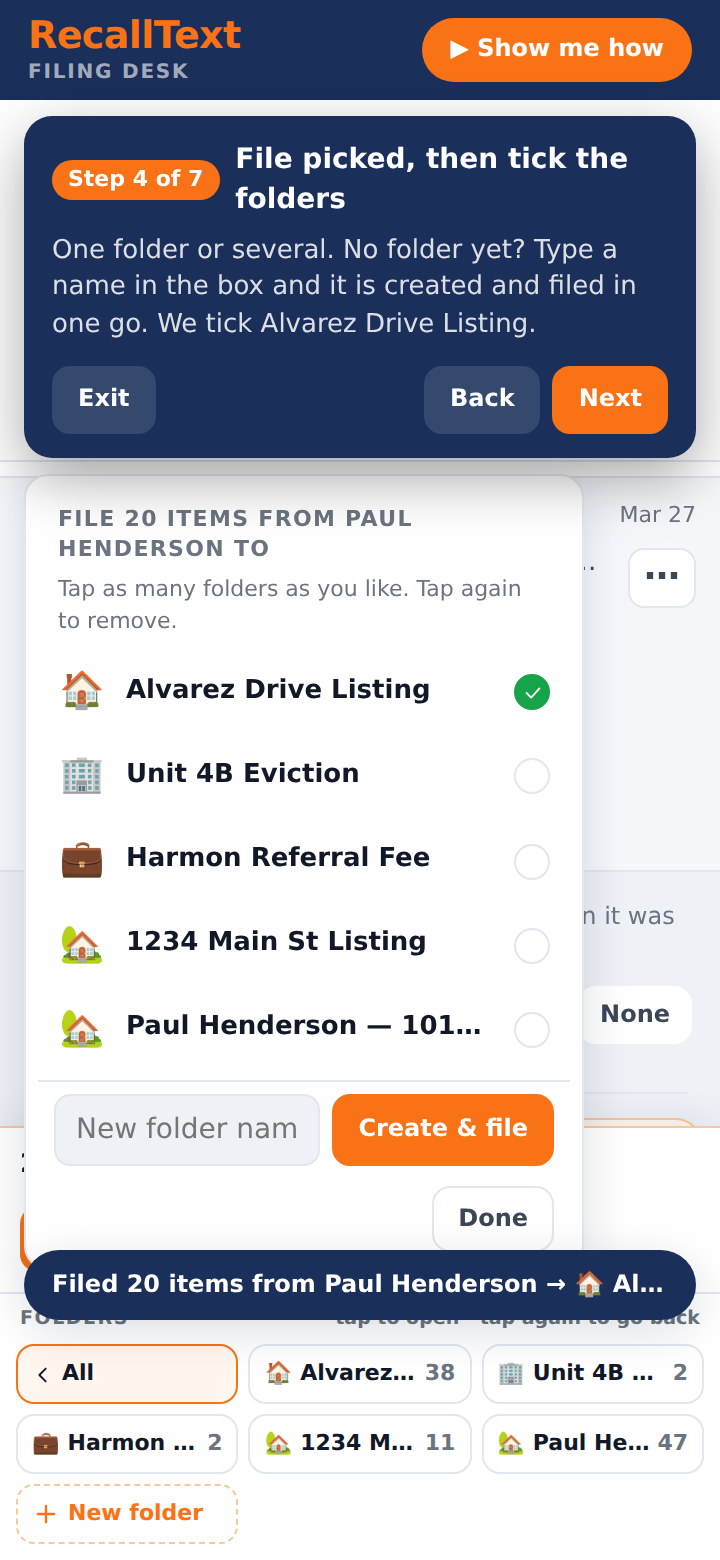
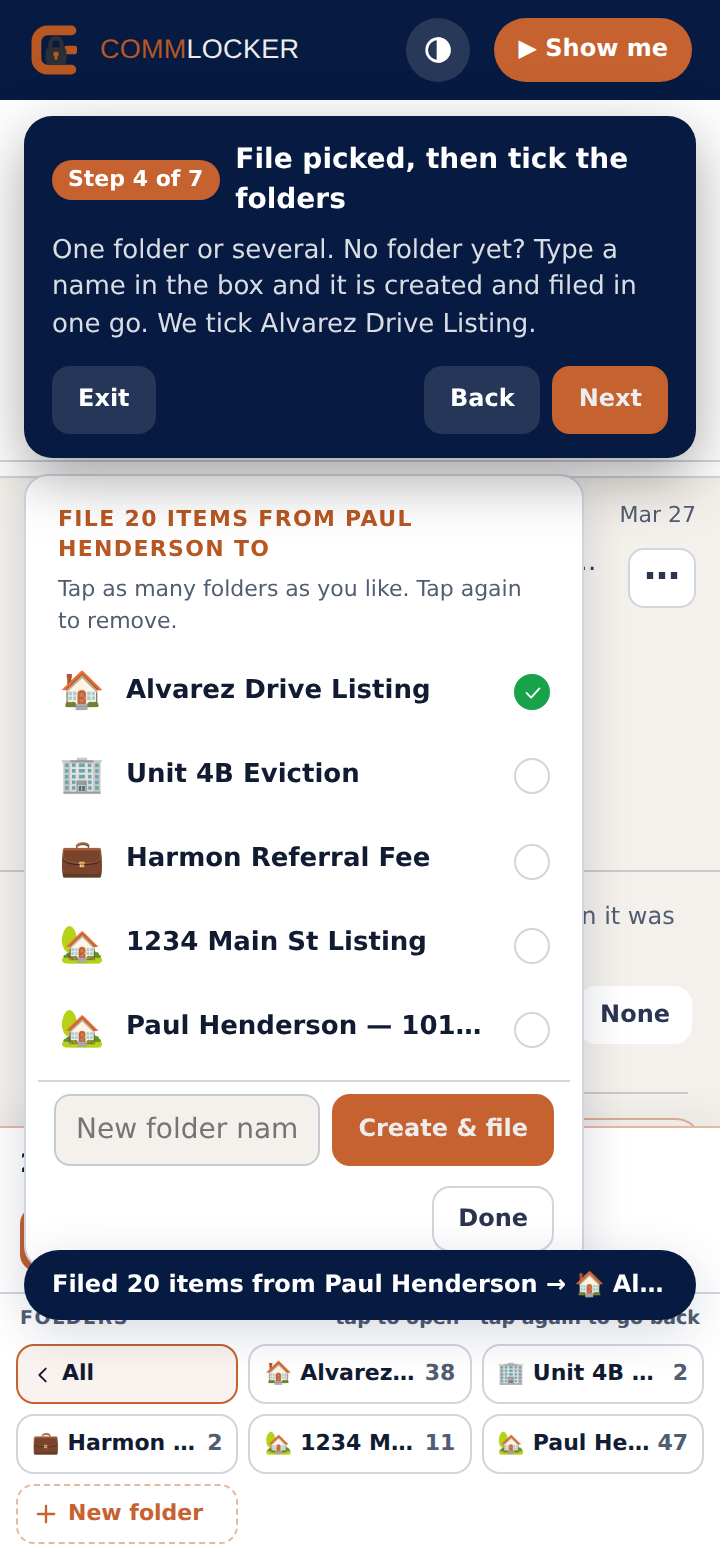
v2: CommLocker brand, locked palette, theme switch
Renames the product to CommLocker everywhere, adds the mark and
wordmark to the header, applies the locked palette (navy #071B42,
burnt orange #B95722/#C56230, beige #F4F1EC, soft white #EDEDED,
text #111C32, muted #515D71, dividers #2B4169, success #16A34A) to
the mockup, walkthrough, plan and drawing, and adds a header button
that cycles System, Light and Dark with the choice persisted.
Export IDs use the CL- prefix. Handoff gains a palette and type
section and a theme acceptance item.

Claude-Session: https://claude.ai/code/session_01XDU4nmh72uskUuhHxjRCHR

diff --git a/v2/index.html b/v2/index.html
@@ -3,37 +3,40 @@
 <head>
 <meta charset="UTF-8">
 <meta name="viewport" content="width=device-width, initial-scale=1.0">
-<title>RecallText Filing Desk</title>
-<link rel="stylesheet" href="https://fonts.googleapis.com/css2?family=Plus+Jakarta+Sans:wght@400;500;600;700;800&display=swap">
+<title>CommLocker Filing Desk</title>
+<link rel="stylesheet" href="https://fonts.googleapis.com/css2?family=Plus+Jakarta+Sans:wght@400;500;600;700;800&family=Michroma&display=swap">
 <style>
 :root{
-  --bg:#EEF1F6;--card:#FFFFFF;--line:#E1E6EF;--ink:#111827;--ink2:#3B4657;--mute:#6B7480;
-  --hd:#1A2F5A;--hd-ink:#FFFFFF;--hd-dim:rgba(255,255,255,.62);--hd-field:rgba(255,255,255,.12);
-  --orange:#F97316;--orange-ink:#FFFFFF;--orange-soft:#FFF1E6;--orange-line:#F7C79E;
-  --txt-c:#2563EB;--call-c:#0F766E;--vm-c:#16A34A;--miss-c:#DC4B26;
-  --amber:#B45309;--amber-soft:#FFF7E0;--amber-line:#F5D98A;
-  --in-b:#EEF1F7;--out-b:#FFF1E0;--hover:#F5F7FB;--drop:#FFF1E6;--sel:#FFF7EF;
-  --shadow:0 6px 24px rgba(16,28,56,.14);
+  --bg:#F4F1EC;--card:#FFFFFF;--line:color-mix(in srgb,#2B4169 22%,transparent);--ink:#111C32;--ink2:#2A3650;--mute:#515D71;
+  --hd:#071B42;--hd-ink:#EDEDED;--hd-dim:rgba(237,237,237,.7);--hd-field:rgba(237,237,237,.14);
+  --orange:#C56230;--orange-hover:#E8793A;--orange-ink:#EDEDED;--orange-soft:color-mix(in srgb,#C56230 10%,#FFFFFF);--orange-line:color-mix(in srgb,#C56230 45%,transparent);
+  --eyebrow:#B95722;
+  --txt-c:#2B4169;--call-c:#0F766E;--vm-c:#16A34A;--miss-c:#B95722;
+  --amber:#B95722;--amber-soft:color-mix(in srgb,#B95722 9%,#FFFFFF);--amber-line:color-mix(in srgb,#B95722 35%,transparent);
+  --in-b:#F4F1EC;--out-b:color-mix(in srgb,#C56230 12%,#FFFFFF);--hover:#F4F1EC;--drop:color-mix(in srgb,#C56230 14%,#FFFFFF);--sel:color-mix(in srgb,#C56230 8%,#FFFFFF);
+  --shadow:0 6px 24px rgba(7,27,66,.16);
 }
 @media (prefers-color-scheme:dark){
   :root:not([data-theme="light"]){
-    --bg:#0C182E;--card:#14233F;--line:#25375A;--ink:#EEF2F8;--ink2:#C3CCDB;--mute:#8E9BB0;
-    --hd:#0A1428;--hd-ink:#FFFFFF;--hd-dim:rgba(255,255,255,.6);--hd-field:rgba(255,255,255,.1);
-    --orange-soft:#3A2410;--orange-line:#7A4A1F;
-    --txt-c:#7FA6FF;--call-c:#3FC1B2;--vm-c:#4ADE80;--miss-c:#F0785A;
-    --amber:#F5B14B;--amber-soft:#2E2510;--amber-line:#5C4A1A;
-    --in-b:#1B2C4C;--out-b:#3A2A18;--hover:#182A49;--drop:#3A2410;--sel:#2A2016;
-    --shadow:0 6px 24px rgba(0,0,0,.45);
+    --bg:#01173C;--card:#071B42;--line:#2B4169;--ink:#EDEDED;--ink2:color-mix(in srgb,#EDEDED 82%,#071B42);--mute:color-mix(in srgb,#EDEDED 58%,#071B42);
+    --hd:#01173C;--hd-ink:#EDEDED;--hd-dim:rgba(237,237,237,.65);--hd-field:rgba(237,237,237,.12);
+    --orange:#C56230;--orange-hover:#E8793A;--orange-ink:#EDEDED;--orange-soft:color-mix(in srgb,#C56230 22%,#071B42);--orange-line:color-mix(in srgb,#C56230 55%,transparent);
+    --eyebrow:#E8793A;
+    --txt-c:#9FB3D9;--call-c:#3FC1B2;--vm-c:#4ADE80;--miss-c:#E8793A;
+    --amber:#E8793A;--amber-soft:color-mix(in srgb,#B95722 22%,#071B42);--amber-line:color-mix(in srgb,#E8793A 40%,transparent);
+    --in-b:#0D2650;--out-b:color-mix(in srgb,#C56230 24%,#071B42);--hover:#0D2650;--drop:color-mix(in srgb,#C56230 24%,#071B42);--sel:color-mix(in srgb,#C56230 16%,#071B42);
+    --shadow:0 6px 24px rgba(0,0,0,.5);
   }
 }
 :root[data-theme="dark"]{
-  --bg:#0C182E;--card:#14233F;--line:#25375A;--ink:#EEF2F8;--ink2:#C3CCDB;--mute:#8E9BB0;
-  --hd:#0A1428;--hd-ink:#FFFFFF;--hd-dim:rgba(255,255,255,.6);--hd-field:rgba(255,255,255,.1);
-  --orange-soft:#3A2410;--orange-line:#7A4A1F;
-  --txt-c:#7FA6FF;--call-c:#3FC1B2;--vm-c:#4ADE80;--miss-c:#F0785A;
-  --amber:#F5B14B;--amber-soft:#2E2510;--amber-line:#5C4A1A;
-  --in-b:#1B2C4C;--out-b:#3A2A18;--hover:#182A49;--drop:#3A2410;--sel:#2A2016;
-  --shadow:0 6px 24px rgba(0,0,0,.45);
+    --bg:#01173C;--card:#071B42;--line:#2B4169;--ink:#EDEDED;--ink2:color-mix(in srgb,#EDEDED 82%,#071B42);--mute:color-mix(in srgb,#EDEDED 58%,#071B42);
+    --hd:#01173C;--hd-ink:#EDEDED;--hd-dim:rgba(237,237,237,.65);--hd-field:rgba(237,237,237,.12);
+    --orange:#C56230;--orange-hover:#E8793A;--orange-ink:#EDEDED;--orange-soft:color-mix(in srgb,#C56230 22%,#071B42);--orange-line:color-mix(in srgb,#C56230 55%,transparent);
+    --eyebrow:#E8793A;
+    --txt-c:#9FB3D9;--call-c:#3FC1B2;--vm-c:#4ADE80;--miss-c:#E8793A;
+    --amber:#E8793A;--amber-soft:color-mix(in srgb,#B95722 22%,#071B42);--amber-line:color-mix(in srgb,#E8793A 40%,transparent);
+    --in-b:#0D2650;--out-b:color-mix(in srgb,#C56230 24%,#071B42);--hover:#0D2650;--drop:color-mix(in srgb,#C56230 24%,#071B42);--sel:color-mix(in srgb,#C56230 16%,#071B42);
+    --shadow:0 6px 24px rgba(0,0,0,.5);
 }
 *{box-sizing:border-box;margin:0;padding:0}
 html,body{height:100%}
@@ -45,8 +48,12 @@ button:focus-visible,input:focus-visible,[tabindex]:focus-visible{outline:2px so
 
 /* ---------- top bar ---------- */
 .top{height:50px;background:var(--hd);color:var(--hd-ink);display:flex;align-items:center;gap:12px;padding:0 14px}
-.brand{font-weight:800;font-size:19px;color:var(--orange);letter-spacing:-.3px;white-space:nowrap}
-.brand small{display:block;font-size:10px;font-weight:600;letter-spacing:.09em;text-transform:uppercase;color:var(--hd-dim);margin-top:-3px}
+.brand{display:flex;align-items:center;gap:8px;white-space:nowrap;flex:none}
+.brand .mark{width:28px;height:28px;flex:none}
+.wm{font-family:'Michroma','Plus Jakarta Sans',sans-serif;font-size:13.5px;letter-spacing:.01em;color:#B95722;line-height:1}
+.wm span{color:#EDEDED}
+.tg{font-size:6.5px;letter-spacing:.1em;white-space:nowrap;overflow:hidden;text-overflow:ellipsis;text-transform:uppercase;color:#EDEDED;margin-top:4px;font-weight:700}
+.tg i{color:#B95722;font-style:normal}
 .tag{font-size:12px;color:var(--hd-dim);flex:1;min-width:0;white-space:nowrap;overflow:hidden;text-overflow:ellipsis}
 .seg{display:flex;background:var(--hd-field);border-radius:8px;padding:3px;gap:2px;flex:none}
 .seg button{padding:5px 11px;border-radius:6px;font-size:12px;font-weight:700;color:var(--hd-dim)}
@@ -58,7 +65,12 @@ button:focus-visible,input:focus-visible,[tabindex]:focus-visible{outline:2px so
 @media (max-width:480px){#app{max-width:none;max-height:none;border:0;border-radius:0}}
 .top{flex:none}
 .top .grow{flex:1}
-.tourbtn{background:var(--orange);color:#fff;border-radius:999px;padding:7px 14px;font-weight:800;font-size:12px;white-space:nowrap}
+.tourbtn{background:var(--orange);}
+.tourbtn:hover{background:var(--orange-hover)}
+.tourbtn{color:#fff;border-radius:999px;padding:7px 12px;font-weight:800;font-size:12px;white-space:nowrap;flex:none}
+.thm{width:32px;height:32px;border-radius:50%;background:var(--hd-field);color:#fff;display:inline-flex;align-items:center;justify-content:center;flex:none}
+.thm .ic{width:16px;height:16px}
+.thm:hover{background:rgba(255,255,255,.22)}
 .shell{flex:1;min-height:0;display:flex;flex-direction:column;min-width:0}
 .pane{background:var(--card);display:flex;flex-direction:column;min-height:0;min-width:0}
 .left{flex:1 1 auto}
@@ -82,7 +94,7 @@ button:focus-visible,input:focus-visible,[tabindex]:focus-visible{outline:2px so
 .search input::placeholder{color:var(--mute)}
 .chips{display:flex;gap:6px;flex-wrap:wrap}
 .chip{padding:5px 11px;border-radius:999px;border:1px solid var(--line);font-size:12px;font-weight:600;color:var(--ink2);display:inline-flex;align-items:center;gap:5px;background:var(--card)}
-.chip[aria-pressed="true"]{background:var(--hd);color:#fff;border-color:var(--hd)}
+.chip[aria-pressed="true"]{background:#071B42;color:#EDEDED;border-color:#071B42}
 .chip .n{font-variant-numeric:tabular-nums;opacity:.7;font-weight:600}
 .scroll{flex:1;overflow-y:auto;min-height:0;overscroll-behavior:contain;position:relative}
 
@@ -96,7 +108,7 @@ button:focus-visible,input:focus-visible,[tabindex]:focus-visible{outline:2px so
 .btn{padding:7px 12px;border-radius:9px;font-size:12px;font-weight:700;border:1px solid var(--line);background:var(--card);color:var(--ink2);white-space:nowrap;display:inline-flex;align-items:center;gap:6px}
 .btn:hover{border-color:var(--orange);color:var(--orange)}
 .btn.primary{background:var(--orange);color:var(--orange-ink);border-color:var(--orange)}
-.btn.primary:hover{filter:brightness(.95);color:var(--orange-ink)}
+.btn.primary:hover{background:var(--orange-hover);border-color:var(--orange-hover);color:var(--orange-ink)}
 .btn.ghost{border-color:transparent}
 
 .seg.dark{background:color-mix(in srgb,var(--line) 60%,transparent);align-self:flex-start}
@@ -214,7 +226,7 @@ button:focus-visible,input:focus-visible,[tabindex]:focus-visible{outline:2px so
 /* ---------- popover / toast ---------- */
 .pop{position:fixed;z-index:50;background:var(--card);border:1px solid var(--line);border-radius:12px;box-shadow:var(--shadow);width:280px;max-width:calc(100vw - 24px);padding:6px;display:none}
 .pop.open{display:block}
-.pop .pt{font-size:11px;font-weight:700;letter-spacing:.06em;text-transform:uppercase;color:var(--mute);padding:8px 10px 4px}
+.pop .pt{font-size:11px;font-weight:700;letter-spacing:.06em;text-transform:uppercase;color:var(--eyebrow);padding:8px 10px 4px}
 .pop .po{display:flex;align-items:center;gap:10px;width:100%;padding:8px 10px;border-radius:8px;text-align:left}
 .pop .po:hover{background:var(--hover)}
 .pop .po .fi{font-size:18px;width:24px;text-align:center}
@@ -256,7 +268,7 @@ button:focus-visible,input:focus-visible,[tabindex]:focus-visible{outline:2px so
 .tiles div{border:1px solid var(--line);border-radius:9px;padding:5px 8px;font-weight:800;font-size:15px;font-variant-numeric:tabular-nums;display:flex;flex-direction:column;line-height:1.15}
 .tiles div small{font-size:9px;font-weight:600;color:var(--mute);text-transform:uppercase;letter-spacing:.04em}
 .hashbox{font-family:ui-monospace,SFMono-Regular,Menlo,monospace;font-size:10px;word-break:break-all;background:var(--bg);border:1px solid var(--line);border-radius:9px;padding:7px 10px;line-height:1.45}
-.hashbox b{display:block;font-family:'Plus Jakarta Sans',system-ui,sans-serif;font-size:10px;letter-spacing:.06em;text-transform:uppercase;color:var(--mute);margin-bottom:2px}
+.hashbox b{display:block;font-family:'Plus Jakarta Sans',system-ui,sans-serif;font-size:10px;letter-spacing:.06em;text-transform:uppercase;color:var(--eyebrow);margin-bottom:2px}
 .hashbox .ok{color:var(--vm-c);font-weight:700}
 .hashbox .why{display:block;font-family:'Plus Jakarta Sans',system-ui,sans-serif;font-size:11px;color:var(--ink2);margin-top:2px;word-break:normal}
 .segx{display:flex;gap:6px}
@@ -268,9 +280,9 @@ button:focus-visible,input:focus-visible,[tabindex]:focus-visible{outline:2px so
 .xbig{width:100%;justify-content:center;padding:12px;font-size:14px;border-radius:12px}
 .xsmall{width:100%;justify-content:center}
 .pvscroll{flex:1;min-height:0;overflow-y:auto;padding-top:10px}
-.preview{border:1px solid #cfd5df;border-radius:8px;padding:14px;background:#fff;color:#111;font-size:11px;line-height:1.5;font-family:'Plus Jakarta Sans',system-ui,sans-serif}
-.preview h5{font-size:11px;letter-spacing:.08em;text-transform:uppercase;margin:0 0 6px;color:#1A2F5A}
-.preview .brand{font-size:15px;font-weight:800;color:#1A2F5A}.preview .brand em{color:#F97316;font-style:normal}
+.preview{border:1px solid #2B4169;border-radius:8px;padding:14px;background:#fff;color:#111C32;font-size:11px;line-height:1.5;font-family:'Plus Jakarta Sans',system-ui,sans-serif}
+.preview h5{font-size:11px;letter-spacing:.08em;text-transform:uppercase;margin:0 0 6px;color:#071B42}
+.preview .brand{margin-bottom:2px}
 .preview .row2{display:grid;grid-template-columns:auto 1fr;gap:1px 10px}
 .preview .row2 span:nth-child(odd){color:#555}
 .preview .mono{font-family:ui-monospace,Menlo,monospace;font-size:9.5px;word-break:break-all;color:#333}
@@ -311,14 +323,18 @@ button:focus-visible,input:focus-visible,[tabindex]:focus-visible{outline:2px so
   <symbol id="i-pdf" viewBox="0 0 24 24"><path d="M6 3h8l4 4v14H6z"/><path d="M14 3v4h4"/><path d="M9 13h6M9 17h6"/></symbol>
   <symbol id="i-plus" viewBox="0 0 24 24"><path d="M12 5v14M5 12h14"/></symbol>
   <symbol id="i-back" viewBox="0 0 24 24"><path d="M15 5l-7 7 7 7"/></symbol>
+  <symbol id="i-sun" viewBox="0 0 24 24"><circle cx="12" cy="12" r="4"/><path d="M12 2v3M12 19v3M2 12h3M19 12h3M4.9 4.9l2.1 2.1M17 17l2.1 2.1M4.9 19.1L7 17M17 7l2.1-2.1"/></symbol>
+  <symbol id="i-moon" viewBox="0 0 24 24"><path d="M20 14.5A8 8 0 0 1 9.5 4a8 8 0 1 0 10.5 10.5z"/></symbol>
+  <symbol id="i-auto" viewBox="0 0 24 24"><circle cx="12" cy="12" r="8.5"/><path d="M12 3.5v17A8.5 8.5 0 0 0 12 3.5z" fill="currentColor"/></symbol>
   <symbol id="i-lock" viewBox="0 0 24 24"><rect x="5" y="11" width="14" height="10" rx="2"/><path d="M8 11V7a4 4 0 0 1 8 0v4"/></symbol>
 </svg>
 
 <div id="app">
   <header class="top">
-    <div class="brand">RecallText<small>Filing desk</small></div>
+    <div class="brand"><svg class="mark" viewBox="0 0 40 40" aria-hidden="true"><path d="M31 6H14a8 8 0 0 0-8 8v12a8 8 0 0 0 8 8h17" stroke="#B95722" stroke-width="7" fill="none" stroke-linecap="round"/><rect x="26" y="17" width="9" height="6" rx="1.5" fill="#B95722"/><path d="M16 19v-3.5a4 4 0 0 1 8 0V19" stroke="#2B2F36" stroke-width="3" fill="none"/><rect x="12.5" y="18" width="15" height="12.5" rx="3" fill="#2B2F36"/><circle cx="20" cy="23" r="1.9" fill="#B95722"/><rect x="19.1" y="23" width="1.8" height="4" fill="#B95722"/></svg><div class="wm">COMM<span>LOCKER</span></div></div>
     <span class="grow"></span>
-    <button class="tourbtn" onclick="tourStart()">▶ Show me how</button>
+    <button class="thm" id="thm" onclick="cycleTheme()" title="Theme: system, light or dark" aria-label="Switch theme"></button>
+    <button class="tourbtn" onclick="tourStart()">▶ Show me</button>
   </header>
 
   <div class="shell" id="shell">
@@ -407,7 +423,7 @@ function scopeItems(sc){ const out=[]; if(sc.kind==='conv'){ const c=contactById
 function attachmentsOf(list){ const files=[]; list.forEach(({i,c})=>{ (i.att||[]).forEach(a=>files.push({name:a.name,kind:a.type,from:c.name,seed:a.name+i.ts})); if(i.type==='vm'){ const d=new Date(i.t); const stamp=d.getFullYear()+String(d.getMonth()+1).padStart(2,'0')+String(d.getDate()).padStart(2,'0')+'-'+String(d.getHours()).padStart(2,'0')+String(d.getMinutes()).padStart(2,'0'); files.push({name:'voicemail-'+stamp+'.m4a',kind:'audio',from:c.name,seed:'a'+i.ts}); files.push({name:'voicemail-'+stamp+'-transcript.txt',kind:'text',from:c.name,seed:'t'+i.ts}); } }); return files; }
 function openExport(sc){
   const list=scopeItems(sc); const title=sc.kind==='conv'?contactById(sc.id).name:folderById(sc.id).name;
-  const now=new Date(); const id='RT-'+(sc.kind==='conv'?'CONV':'FOLDER')+'-'+fullHash(title+list.length).slice(0,8).toUpperCase();
+  const now=new Date(); const id='CL-'+(sc.kind==='conv'?'CONV':'FOLDER')+'-'+fullHash(title+list.length).slice(0,8).toUpperCase();
   const exportHash=fullHash(list.map(x=>fullHash(itemSeed(x.i))).join('')+id);
   ex={sc,list,title,id,now,exportHash,pdf:true,zip:true,preview:false,files:attachmentsOf(list)};
   renderExport(); document.getElementById('ov').classList.add('open');
@@ -450,11 +466,11 @@ function renderPreview(){
   const entry=({i,c})=>{ const h=fullHash(itemSeed(i)); const who=i.dir==='out'?'This device':c.name; const line=i.type==='text'?'SMS':i.type==='vm'?'Voicemail':'Call log';
     return `<p><b>${fmtDivider(i.t).replace(/^\w+, /,'')} ${fmtTime(i.t)}</b><br>${line} - ${esc(who)}<br>${esc(c.name)} | ${i.dir==='out'?'To':'From'} carrier #: ${esc(c.number)}${i.dir==='out'?' · Device line: '+EXPORTER.line:''}<br>${esc(i.text||i.transcript||i.note||'')}<br><span class="mono">Ingestion record hash (SHA-256): ${h}<br>Current record hash (SHA-256): ${h}</span><br>Verification: <span class="m">MATCH</span></p>`; };
   return `<div class="preview">
-    <div class="brand">Recall<em>Text</em></div><h5>Tamper-evident communication record</h5>
+    <div class="brand" style="font-family:'Michroma',sans-serif;font-size:13px;letter-spacing:.01em;color:#B95722">COMM<em style="color:#071B42;font-style:normal">LOCKER</em></div><div style="font-size:8px;letter-spacing:.14em;text-transform:uppercase;color:#111C32;font-weight:700;margin-bottom:6px">Logged<span style="color:#B95722">.</span> Secure<span style="color:#B95722">.</span> Tamper-evident<span style="color:#B95722">.</span></div><h5>Tamper-evident communication record</h5>
     <div class="row2"><span>File:</span><span>${esc(title)}</span><span>Scope:</span><span>${sc.kind==='conv'?'Single conversation/thread':'Folder record'}</span><span>Export ID:</span><span>${id}</span><span>Generated:</span><span>${fmtFull(now)}</span><span>Exporter:</span><span>${EXPORTER.name} · ${EXPORTER.lic} · ${EXPORTER.org}</span><span>Date range:</span><span>${first} – ${last}</span><span>Messages:</span><span>${k.text}</span><span>Calls:</span><span>${k.call}</span><span>Voicemails:</span><span>${k.vm}</span><span>Attachments:</span><span>${files.length}</span><span>Participants:</span><span>${parties.length+1}</span>${parties.map(c=>`<span>Participant (party):</span><span>${esc(c.name)} · ${esc(c.number)}</span>`).join('')}</div>
     <hr><h5>Conversation timeline (first ${Math.min(2,n)} of ${n})</h5>${list.slice(0,2).map(entry).join('')}${n>2?`<p style="color:#666">… ${n-2} more records, each with both hashes and a MATCH line …</p>`:''}
     <hr><h5>Attachment index</h5>${files.length?files.map(f=>`<p class="mono">${esc(f.name)} · sha256:${fullHash(f.seed)}</p>`).join(''):'<p>No attachments in scope.</p>'}
-    <hr><h5>Chain of custody</h5><p>This record was generated on-device by RecallText from device-native communication data available to the app. Message content, call records, voicemail records, attachments and record hashes are processed locally. Hashes verify that included items are unaltered since first observation by RecallText; this record makes no claim of completeness. Notes are labeled separately and do not alter original communication content.</p>
+    <hr><h5>Chain of custody</h5><p>This record was generated on-device by CommLocker from device-native communication data available to the app. Message content, call records, voicemail records, attachments and record hashes are processed locally. Hashes verify that included items are unaltered since first observation by CommLocker; this record makes no claim of completeness. Notes are labeled separately and do not alter original communication content.</p>
     <p class="mono"><b>Export Hash:</b> ${exportHash}</p></div>`;
 }
 
@@ -648,6 +664,13 @@ function togglePick(iid){ if(state.picked.has(iid)) state.picked.delete(iid); el
 function pickAll(cid,on){ itemsFor(contactById(cid)).forEach(i=>on?state.picked.add(i.id):state.picked.delete(i.id)); render(); }
 function toggleOpen(id){ if(state.open.has(id)) state.open.delete(id); else state.open.add(id); render(); }
 function toggleRest(id){ if(state.showRest.has(id)) state.showRest.delete(id); else state.showRest.add(id); render(); }
+/* ---------- theme: system / light / dark ---------- */
+const THEMES=[['system','i-auto','System'],['light','i-sun','Light'],['dark','i-moon','Dark']];
+let themeIdx=0;
+function applyTheme(i,quiet){ themeIdx=i; const [t,icon,label]=THEMES[i]; const r=document.documentElement; if(t==='system') r.removeAttribute('data-theme'); else r.setAttribute('data-theme',t); const b=document.getElementById('thm'); b.innerHTML=`<svg class="ic"><use href="#${icon}"/></svg>`; b.title='Theme: '+label+' (tap to change)'; try{ localStorage.setItem('cl-theme',t); }catch(e){} if(!quiet) toast('Theme: '+label); }
+function cycleTheme(){ applyTheme((themeIdx+1)%THEMES.length); }
+(()=>{ let saved=null; try{ saved=localStorage.getItem('cl-theme'); }catch(e){} const i=Math.max(0,THEMES.findIndex(x=>x[0]===saved)); applyTheme(i,true); })();
+
 /* ---------- guided tour ---------- */
 const fakeEv = el => ({ stopPropagation(){}, currentTarget: el });
 function scrollRow(cid){ const rows=document.getElementById('rows'); const r=rows.querySelector(`.row[data-cid="${cid}"]`); if(r) rows.scrollTop=r.offsetTop-8; }

diff --git a/v2/walkthrough.html b/v2/walkthrough.html
@@ -3,16 +3,30 @@
 <head>
 <meta charset="UTF-8">
 <meta name="viewport" content="width=device-width, initial-scale=1.0">
-<title>RecallText Phone Walkthrough</title>
+<title>CommLocker Phone Walkthrough</title>
 <link rel="stylesheet" href="https://fonts.googleapis.com/css2?family=Plus+Jakarta+Sans:wght@400;500;600;700;800&display=swap">
 <style>
-:root{--bg:#F5F6FA;--paper:#FFFFFF;--line:#E1E6EF;--ink:#111827;--ink2:#3B4657;--mute:#6B7480;--navy:#1A2F5A;--orange:#F97316;--orange-soft:#FFF1E6;--orange-line:#F7C79E;--good:#16A34A;--good-soft:#EAF8EE}
-@media (prefers-color-scheme:dark){:root:not([data-theme="light"]){--bg:#0C182E;--paper:#14233F;--line:#25375A;--ink:#EEF2F8;--ink2:#C3CCDB;--mute:#8E9BB0;--navy:#DCE6FF;--orange-soft:#3A2410;--orange-line:#7A4A1F;--good:#4ADE80;--good-soft:#14301F}}
-:root[data-theme="dark"]{--bg:#0C182E;--paper:#14233F;--line:#25375A;--ink:#EEF2F8;--ink2:#C3CCDB;--mute:#8E9BB0;--navy:#DCE6FF;--orange-soft:#3A2410;--orange-line:#7A4A1F;--good:#4ADE80;--good-soft:#14301F}
+:root{
+  --bg:#F4F1EC;--paper:#FFFFFF;--line:color-mix(in srgb,#2B4169 22%,transparent);--ink:#111C32;--ink2:#2A3650;--mute:#515D71;
+  --navy:#071B42;--orange:#C56230;--orange-soft:color-mix(in srgb,#C56230 10%,#FFFFFF);--orange-line:color-mix(in srgb,#C56230 45%,transparent);--eyebrow:#B95722;
+  --txt-c:#2B4169;--call-c:#0F766E;--vm-c:#16A34A;--miss-c:#B95722;--good-soft:color-mix(in srgb,#16A34A 10%,#FFFFFF);--bad-soft:color-mix(in srgb,#B95722 10%,#FFFFFF);--good:#16A34A;
+}
+@media (prefers-color-scheme:dark){
+  :root:not([data-theme="light"]){
+    --bg:#01173C;--paper:#071B42;--line:#2B4169;--ink:#EDEDED;--ink2:color-mix(in srgb,#EDEDED 82%,#071B42);--mute:color-mix(in srgb,#EDEDED 58%,#071B42);
+    --navy:#EDEDED;--orange:#C56230;--orange-soft:color-mix(in srgb,#C56230 22%,#071B42);--orange-line:color-mix(in srgb,#C56230 55%,transparent);--eyebrow:#E8793A;
+    --txt-c:#9FB3D9;--call-c:#3FC1B2;--vm-c:#4ADE80;--miss-c:#E8793A;--good-soft:color-mix(in srgb,#16A34A 18%,#071B42);--bad-soft:color-mix(in srgb,#B95722 22%,#071B42);--good:#4ADE80;
+  }
+}
+:root[data-theme="dark"]{
+    --bg:#01173C;--paper:#071B42;--line:#2B4169;--ink:#EDEDED;--ink2:color-mix(in srgb,#EDEDED 82%,#071B42);--mute:color-mix(in srgb,#EDEDED 58%,#071B42);
+    --navy:#EDEDED;--orange:#C56230;--orange-soft:color-mix(in srgb,#C56230 22%,#071B42);--orange-line:color-mix(in srgb,#C56230 55%,transparent);--eyebrow:#E8793A;
+    --txt-c:#9FB3D9;--call-c:#3FC1B2;--vm-c:#4ADE80;--miss-c:#E8793A;--good-soft:color-mix(in srgb,#16A34A 18%,#071B42);--bad-soft:color-mix(in srgb,#B95722 22%,#071B42);--good:#4ADE80;
+}
 *{box-sizing:border-box;margin:0;padding:0}
 body{font-family:'Plus Jakarta Sans',system-ui,-apple-system,'Segoe UI',sans-serif;background:var(--bg);color:var(--ink);font-size:15px;line-height:1.6;padding:0 16px;padding-block:40px 80px;-webkit-font-smoothing:antialiased}
 .wrap{max-width:900px;margin:0 auto}
-.eyebrow{font-size:11px;font-weight:700;letter-spacing:.12em;text-transform:uppercase;color:var(--orange);margin-bottom:10px}
+.eyebrow{font-size:11px;font-weight:700;letter-spacing:.12em;text-transform:uppercase;color:var(--eyebrow);margin-bottom:10px}
 h1{font-size:32px;font-weight:800;line-height:1.15;letter-spacing:-.5px;color:var(--navy);text-wrap:balance;max-width:22ch}
 .lede{font-size:17px;color:var(--ink2);max-width:60ch;margin-top:14px}
 a{color:var(--orange);font-weight:600}
@@ -24,10 +38,10 @@ a{color:var(--orange);font-weight:600}
 .tally span{font-size:12px;color:var(--mute)}
 .step{display:grid;grid-template-columns:300px 1fr;gap:26px;align-items:start;padding:28px 0;border-bottom:1px solid var(--line)}
 .step:last-of-type{border-bottom:0}
-.phone{width:100%;max-width:300px;border-radius:26px;border:6px solid #1c2233;box-shadow:0 14px 40px rgba(16,28,56,.22);display:block;background:#000}
+.phone{width:100%;max-width:300px;border-radius:26px;border:6px solid #01173C;box-shadow:0 14px 40px rgba(16,28,56,.22);display:block;background:#000}
 .n{display:inline-flex;align-items:center;justify-content:center;width:30px;height:30px;border-radius:50%;background:var(--navy);color:#fff;font-weight:800;font-size:13px;margin-bottom:8px}
-:root[data-theme="dark"] .n{color:#0C182E}
-@media (prefers-color-scheme:dark){:root:not([data-theme="light"]) .n{color:#0C182E}}
+:root[data-theme="dark"] .n{color:#071B42}
+@media (prefers-color-scheme:dark){:root:not([data-theme="light"]) .n{color:#071B42}}
 .step h2{font-size:20px;font-weight:800;letter-spacing:-.3px;color:var(--navy);text-wrap:balance}
 .tap{display:inline-flex;align-items:center;gap:6px;font-size:12px;font-weight:700;color:var(--orange);background:var(--orange-soft);border:1px solid var(--orange-line);border-radius:999px;padding:3px 10px;margin:8px 0 10px}
 .step p{max-width:52ch;color:var(--ink2)}
@@ -48,9 +62,9 @@ td.g{background:var(--good-soft);color:var(--good);font-weight:700}
 </head>
 <body>
 <div class="wrap">
-  <div class="eyebrow">RecallText · phone app · how it works</div>
+  <div class="eyebrow">CommLocker · phone app · how it works</div>
   <h1>Seven screens. Four taps to file, one to open, one to export.</h1>
-  <p class="lede">This is the whole app on a portrait phone at a 9:19.5 aspect ratio (720 × 1560 class screens), using the real sample data. Every screen below is a live capture of the mockup at that size, and every one of them, the export page included, fits without scrolling. The same walk-through runs inside the mockup itself: open it and tap <b>Show me how</b>.</p>
+  <p class="lede">This is the whole app on a portrait phone at a 9:19.5 aspect ratio (720 × 1560 class screens), using the real sample data. Every screen below is a live capture of the mockup at that size, and every one of them, the export page included, fits without scrolling. The same walk-through runs inside the mockup itself: open it and tap <b>Show me</b>.</p>
   <a class="cta" href="https://claude.ai/code/artifact/bf93e84c-06e0-4471-ad9d-4fde737d38c8">▶ Open the mockup on your phone</a>
 
   <div class="tally">
@@ -65,7 +79,7 @@ td.g{background:var(--good-soft);color:var(--good);font-weight:700}
     <div><span class="n">1</span><h2>Your phone, in one list</h2><span class="tap">No taps yet</span>
       <p>Every text, call and voicemail on the phone, newest first, one line per person. Each line shows the latest item, how many texts, calls and voicemails there are, and which folders it is already in.</p>
       <p>The lock chip, for example “22 hashed”, means every item was hashed the moment it came off the phone. That happens before you do anything.</p>
-      <div class="why">Filters along the top: All, Texts, Calls, Voicemails, Not filed yet. “Not filed yet” is your to-do list. Folders sit along the bottom, always visible, nothing to scroll sideways.</div>
+      <div class="why">Filters along the top: All, Texts, Calls, Voicemails, Not filed yet. “Not filed yet” is your to-do list. Folders sit along the bottom, always visible, nothing to scroll sideways. The round button in the header switches the theme: System, Light, Dark, one tap each.</div>
     </div>
   </div>
 

diff --git a/v2/HANDOFF.md b/v2/HANDOFF.md
@@ -1,8 +1,8 @@
-# RecallText v2 — developer handoff
+# CommLocker v2 — developer handoff
 
 For the Kotlin/Android build. This is the spec behind the clickable mockup in `v2/index.html`. The mockup is the reference for layout and copy; this file is the reference for behavior, data and acceptance. Where the two disagree, this file wins.
 
-- Mockup (live): https://claude.ai/code/artifact/bf93e84c-06e0-4471-ad9d-4fde737d38c8 — tap **Show me how** for the seven-step tour
+- Mockup (live): https://claude.ai/code/artifact/bf93e84c-06e0-4471-ad9d-4fde737d38c8 — tap **Show me** for the seven-step tour
 - Walkthrough with captures: `v2/walkthrough.html`
 - Target: portrait phone, 9:19.5 aspect (720 × 1560 class). Every screen, including Export, fits one screen height without scrolling at 360 × 780 dp. Lists scroll; pages do not.
 
@@ -52,7 +52,7 @@ Rules:
 
 ### 3.1 Everything (home)
 
-- Header: brand, **Show me how** (optional in production).
+- Header: CommLocker mark and wordmark (orange COMM, white LOCKER; the tagline appears on the printed cover sheet, not in the header), a round theme button that cycles System → Light → Dark on each tap (persisted, toast names the new theme), **Show me** tour button (optional in production).
 - Title "Everything · N conversations · M items", search field, filter chips: All, Texts, Calls, Voicemails, Not filed yet (each with a count).
 - Row per contact: avatar, name, role · number, latest item with a type chip (Text / Call / No answer / Voicemail) and preview, counts by type, lock chip "N hashed", folder chips or "not filed", a **⋯** button. Spam rows dimmed.
 - Tap row → expands in place: date dividers, texts as bubbles, calls and voicemails as cards, each with `hashed at ingestion <time> · sha256:<16 hex>…`, attachments as chips, agent note in an amber strip, folder chips. Header line of the thread has **Pick messages**.
@@ -92,7 +92,7 @@ Top to bottom, in this order:
 
 **Preview cover sheet** is its own page (Back returns to Export). It renders the first page of the PDF and the first two timeline entries exactly as they print, then the attachment index and chain of custody with the export hash.
 
-Export ID format: `RT-<CONV|FOLDER>-<8 hex>` in the mockup; keep the production format `RT-YYYYMMDD-XXXXXXXX` if you prefer, it is not user-facing logic.
+Export ID format: `CL-<CONV|FOLDER>-<8 hex>` in the mockup; keep the production format `RT-YYYYMMDD-XXXXXXXX` if you prefer, it is not user-facing logic.
 
 ### 3.6 New folder
 
@@ -149,7 +149,29 @@ One ZIP per export, next to the PDF, containing every attachment in scope: image
 
 Cover / Export Summary → Conversation Timeline (both hashes per record) → Attachment Index → Chain of Custody with Export Hash. This is the current generator's structure; keep it, just add the "Current SHA-256" line where it is missing and the MISMATCH handling.
 
-## 5. Acceptance checklist
+## 5. Palette and type (locked)
+
+Logo palette: Navy `#071B42`, Burnt orange `#B95722`, Secondary burnt orange `#C56230`, Beige `#F4F1EC`, Soft white `#EDEDED`. Website palette is managed separately; the app uses the mapping below and nothing else.
+
+| Token | Light | Dark | Used for |
+|---|---|---|---|
+| ground | `#F4F1EC` | `#01173C` | screen background |
+| card | `#FFFFFF` | `#071B42` | rows, sheets, popovers |
+| header | `#071B42` | `#01173C` | top bar, tour card, selected filter chip |
+| text | `#111C32` | `#EDEDED` | body text |
+| muted | `#515D71` | `#EDEDED` @ 58% | secondary text, timestamps |
+| divider | `#2B4169` @ 22% | `#2B4169` | borders and lines |
+| button | `#C56230` | `#C56230` | primary buttons, selected folder, "on" states |
+| button hover/pressed | `#E8793A` | `#E8793A` | |
+| eyebrow | `#B95722` | `#E8793A` | small uppercase labels, agent-note strip, "no answer" |
+| success | `#16A34A` | `#4ADE80` | verified rows, MATCH, voicemail cards |
+| wordmark | COMM `#B95722` · LOCKER `#EDEDED` on the header; LOCKER `#071B42` on paper (cover sheet) | | |
+
+Two status colors sit outside the palette on purpose, because they must not read as brand: texts `#2B4169` (navy, in palette) and calls `#0F766E` (teal). Swap the teal if you have a house choice; keep it distinct from orange and green.
+
+Type: Plus Jakarta Sans 400–800 for the UI, Michroma for the wordmark only. Body 14 sp, row title 14 sp bold, chips 11–12 sp bold, hashes 10 sp monospace.
+
+## 6. Acceptance checklist
 
 - [ ] At 360 × 780 dp the Everything list, an open folder, the pick bar and the Export page each fit the screen; only lists scroll.
 - [ ] Folder chips: all visible in a fixed 3-column block; no horizontal scrolling.
@@ -163,7 +185,8 @@ Cover / Export Summary → Conversation Timeline (both hashes per record) → At
 - [ ] The export hash printed in the PDF equals the value recomputed from the PDF's timeline hashes + Export ID + generated time.
 - [ ] ZIP contains every attachment in scope with names and SHA-256 matching the attachment index.
 - [ ] Filing, unfiling, renaming a contact and adding a note never change any ingestion hash.
+- [ ] Theme button cycles System, Light, Dark; the choice survives an app restart; every screen is readable in both themes.
 
-## 6. Out of scope for this pass
+## 7. Out of scope for this pass
 
 Multi-select across rows, drag and drop, category templates on folder creation, the incoming-call capture demo. All can come later without touching the data model above.

diff --git a/v2/PLAN.md b/v2/PLAN.md
@@ -1,11 +1,11 @@
-# RecallText Filing Desk — redesign plan
+# CommLocker Filing Desk — redesign plan
 
 **One screen. What's on your phone, and where it goes.**
 
 Today the app splits a deal across two tabs, a detail screen and four forms, and calls and voicemails sit in a block of their own. The redesign is one phone screen: every text, call and voicemail in one list, folders along the bottom, and a ⋯ on each conversation to file or export.
 
 - Developer handoff (data model, behavior, hashing rules, acceptance checklist): [`v2/HANDOFF.md`](./HANDOFF.md)
-- Clickable mockup, sized for a 9:19.5 portrait phone: [`v2/index.html`](./index.html) · live preview: https://claude.ai/code/artifact/bf93e84c-06e0-4471-ad9d-4fde737d38c8 (runs on the app's real sample data; tap **Show me how** for a guided walk-through)
+- Clickable mockup, sized for a 9:19.5 portrait phone: [`v2/index.html`](./index.html) · live preview: https://claude.ai/code/artifact/bf93e84c-06e0-4471-ad9d-4fde737d38c8 (runs on the app's real sample data; tap **Show me** for a guided walk-through)
 - Seven-screen walkthrough with captures: [`v2/walkthrough.html`](./walkthrough.html) · live: https://claude.ai/code/artifact/24840a15-2166-44f8-af48-f918ab4f34ba
 - Before/after drawing: [`v2/before-after.svg`](./before-after.svg)
 
@@ -20,13 +20,13 @@ Today the app splits a deal across two tabs, a detail screen and four forms, and
 
 ```mermaid
 flowchart LR
-  P[Your phone<br/>text · call · voicemail] --> I[RecallText pulls it in]
+  P[Your phone<br/>text · call · voicemail] --> I[CommLocker pulls it in]
   I --> H[SHA-256 hash + timestamp<br/>stamped at ingestion]
   H --> E[Appears in Everything<br/>already certified]
   E --> F[You file it to one<br/>or more folders<br/>a label, nothing changes]
   F --> X[Export PDF<br/>carries the original hash]
-  classDef key fill:#FFF1E6,stroke:#F97316,color:#7C2D12
-  classDef step fill:#FFFFFF,stroke:#1A2F5A,color:#111827
+  classDef key fill:#F4F1EC,stroke:#C56230,color:#B95722
+  classDef step fill:#FFFFFF,stroke:#071B42,color:#111C32
   class H key
   class P,I,E,F,X step
 ```
@@ -90,10 +90,10 @@ flowchart TD
   J --> K[7 · Remove the old steps<br/>All Texts tab · Add Call Log form · Add Voicemail form<br/>Add Conversations · File This Message picker]
   K --> L[8 · Live phone data<br/>call log and voicemail feed into the stream automatically<br/>replaces the simulated forms for good]
   L --> M([Done: one screen, one move])
-  classDef now fill:#E1E6EF,stroke:#1A2F5A,color:#111827
-  classDef step fill:#FFFFFF,stroke:#1A2F5A,color:#111827
-  classDef key fill:#FFF1E6,stroke:#F97316,color:#7C2D12
-  classDef done fill:#F97316,stroke:#F97316,color:#FFFFFF
+  classDef now fill:#F4F1EC,stroke:#071B42,color:#111C32
+  classDef step fill:#FFFFFF,stroke:#071B42,color:#111C32
+  classDef key fill:#F4F1EC,stroke:#C56230,color:#B95722
+  classDef done fill:#C56230,stroke:#C56230,color:#EDEDED
   class A now
   class B,C,D,F,J,K,L step
   class E key
